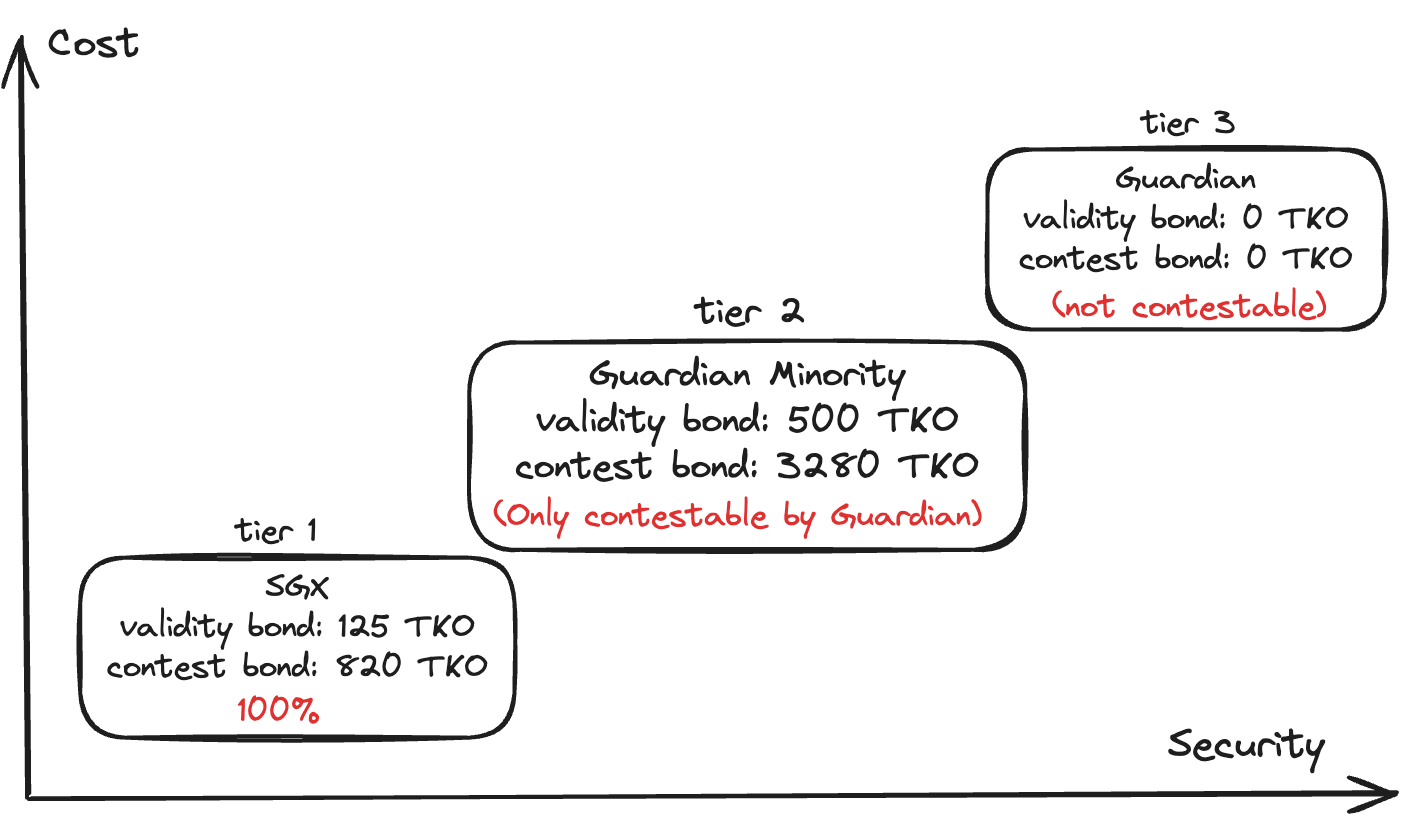
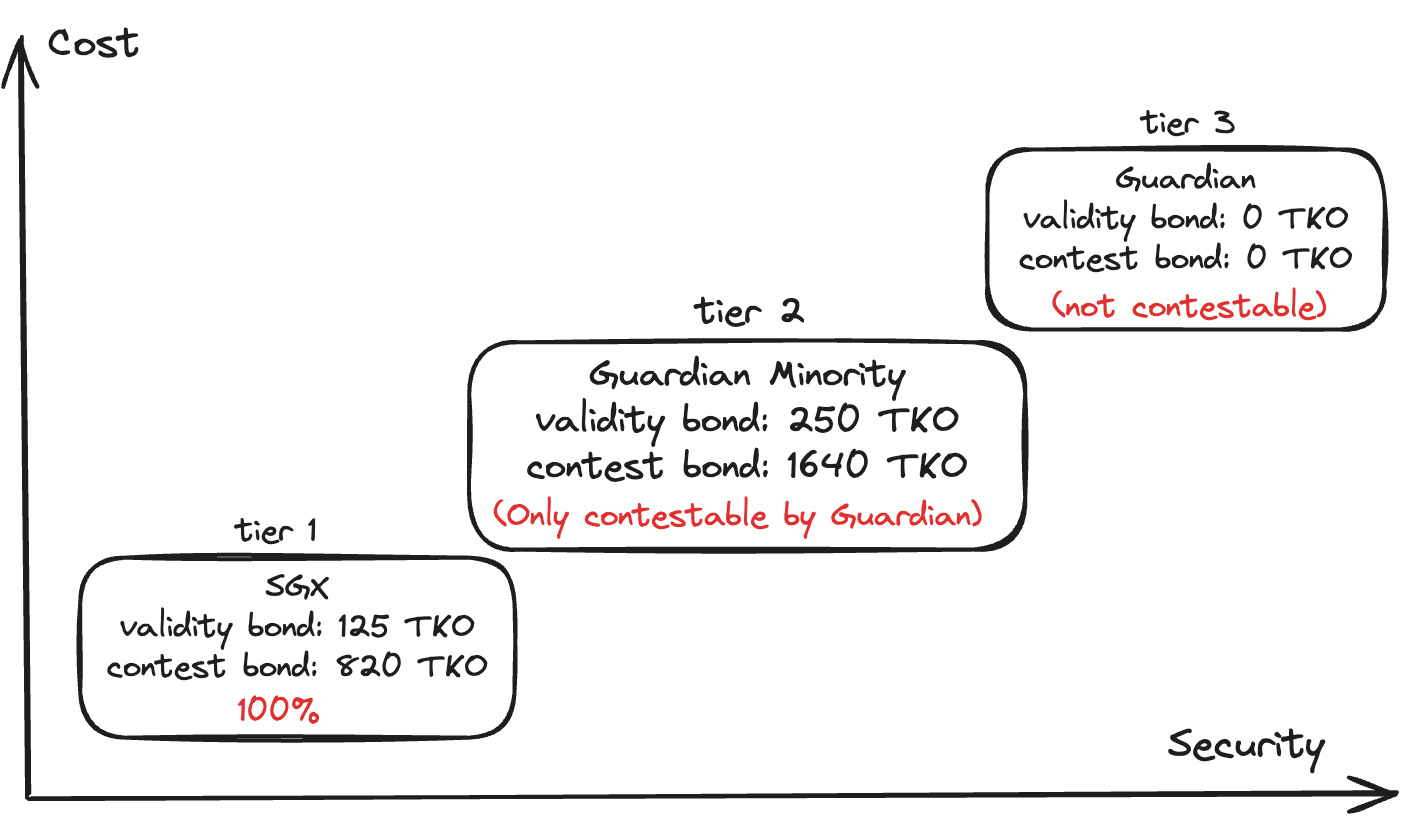
docs(docs-site): update guardian minority bond amount and enable a prover guide (#17636)

Changed region(s): [[0.3729, 0.4884, 0.7147, 0.6105], [0.404, 0.4884, 0.4661, 0.5189], [0.6525, 0.4884, 0.6836, 0.5189]]

diff --git a/packages/docs-site/src/content/docs/network-reference/mainnet-addresses.md b/packages/docs-site/src/content/docs/network-reference/mainnet-addresses.md
@@ -74,8 +74,8 @@ The owner has the ability to upgrade the contracts.
 
 | Name         | Address                                      |
 | ------------ | -------------------------------------------- |
-| Proposer #1  | `0x000000633b68f5d8d3a86593ebb815b4663bcbe0` |
-| Prover #1    | `0x000000629FBCf27A347d1AEbA658435230D74a5f` |
+| Proposer #1  | `0x000000629FBCf27A347d1AEbA658435230D74a5f` |
+| Prover #1    | `0x000000633b68f5d8d3a86593ebb815b4663bcbe0` |
 | Contester #1 | `0x00000027F51a57E7FcBC4b481d15fcE5BE68b30B` |
 
 ## Taiko Labs' bootnode addresses
